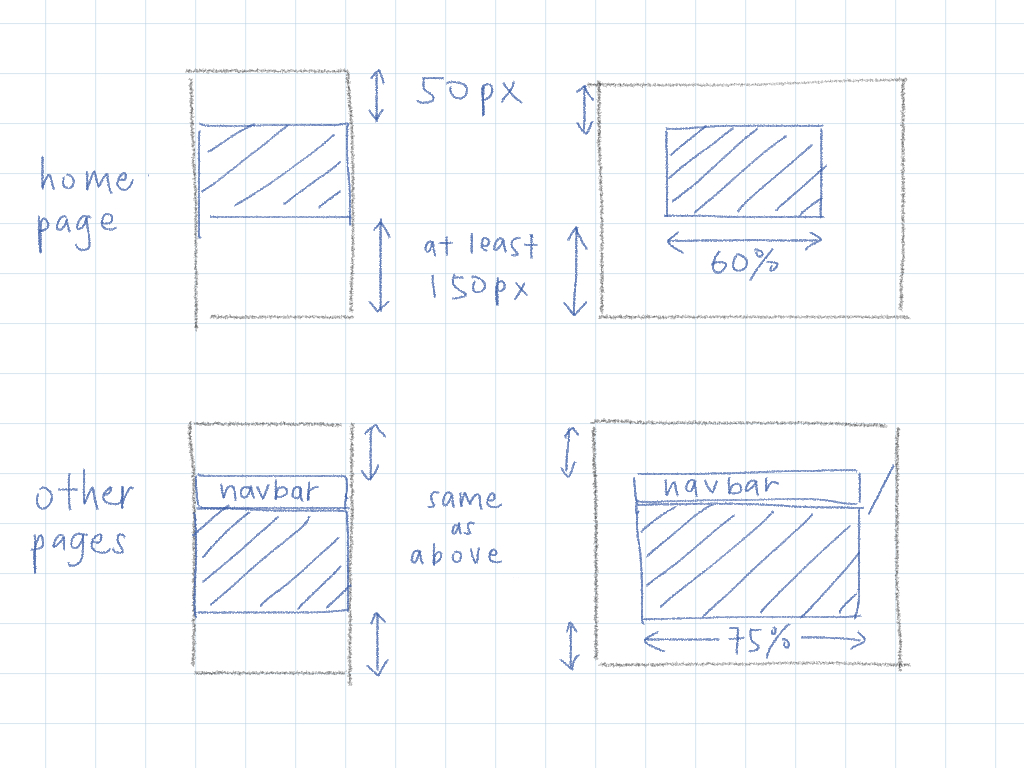
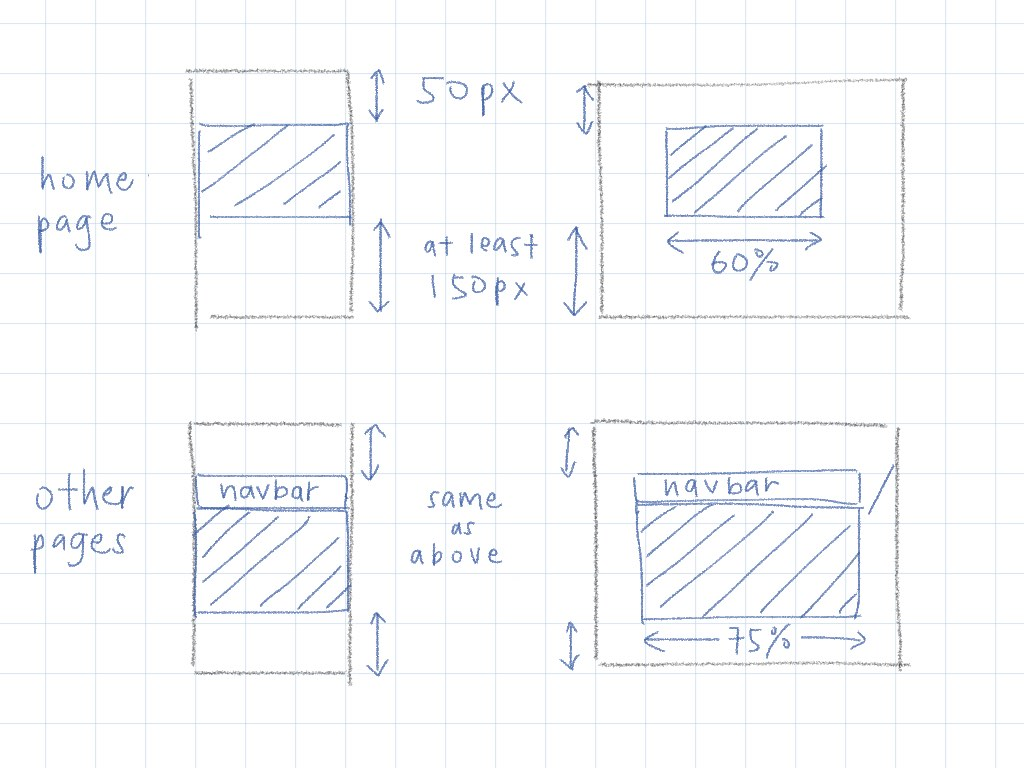
Compress images for smaller file sizes

diff --git a/_posts/2017-12-21-css-grid.md b/_posts/2017-12-21-css-grid.md
@@ -191,9 +191,9 @@ If you want to know more, [watch the video][css grid video] or [read about CSS g
 [ugly grids img]: /assets/img/2017-12-21-css-grid/ugly-grids.png
 [css grid layout]: /assets/img/2017-12-21-css-grid/css-grid-layout.png
 [layout sketches]: /assets/img/2017-12-21-css-grid/layout-sketches.jpg
-[page small]: /assets/img/2017-12-21-css-grid/orig-page-small.png
-[page big]: /assets/img/2017-12-21-css-grid/orig-page-big.png
-[home big]: /assets/img/2017-12-21-css-grid/orig-home-big.png
-[new page small]: /assets/img/2017-12-21-css-grid/new-page-small.png
-[new page big]: /assets/img/2017-12-21-css-grid/new-page-big.png
-[new home big]: /assets/img/2017-12-21-css-grid/new-home-big.png
+[page small]: /assets/img/2017-12-21-css-grid/orig-page-small.jpg
+[page big]: /assets/img/2017-12-21-css-grid/orig-page-big.jpg
+[home big]: /assets/img/2017-12-21-css-grid/orig-home-big.jpg
+[new page small]: /assets/img/2017-12-21-css-grid/new-page-small.jpg
+[new page big]: /assets/img/2017-12-21-css-grid/new-page-big.jpg
+[new home big]: /assets/img/2017-12-21-css-grid/new-home-big.jpg
